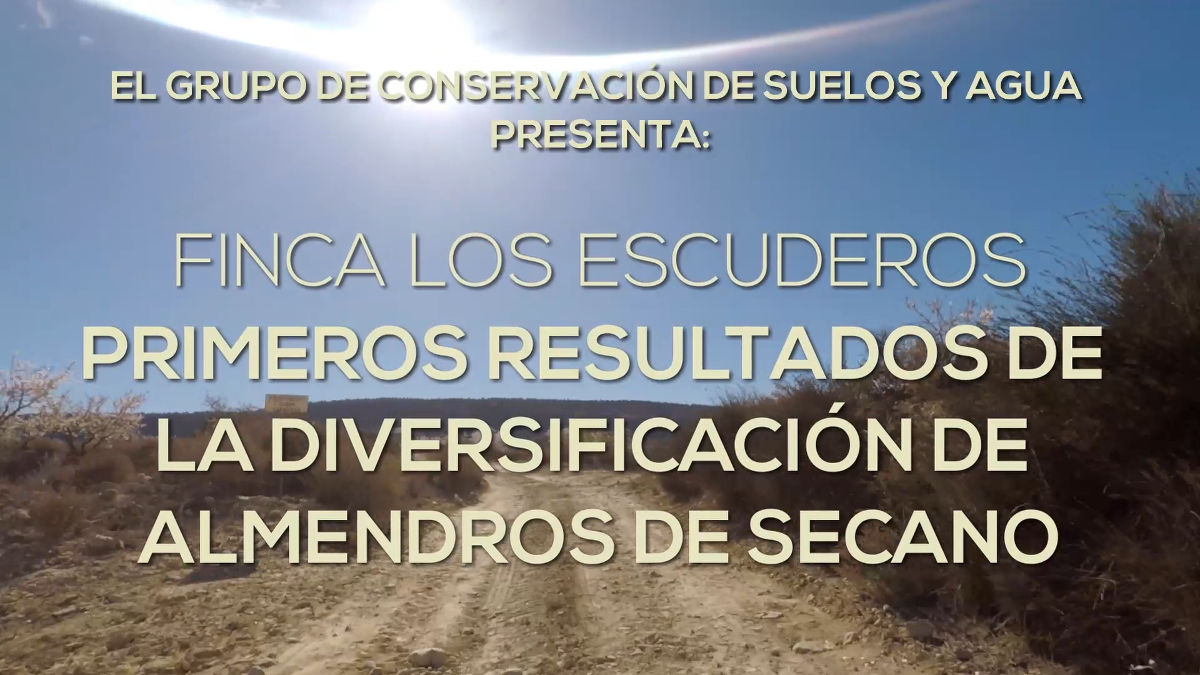
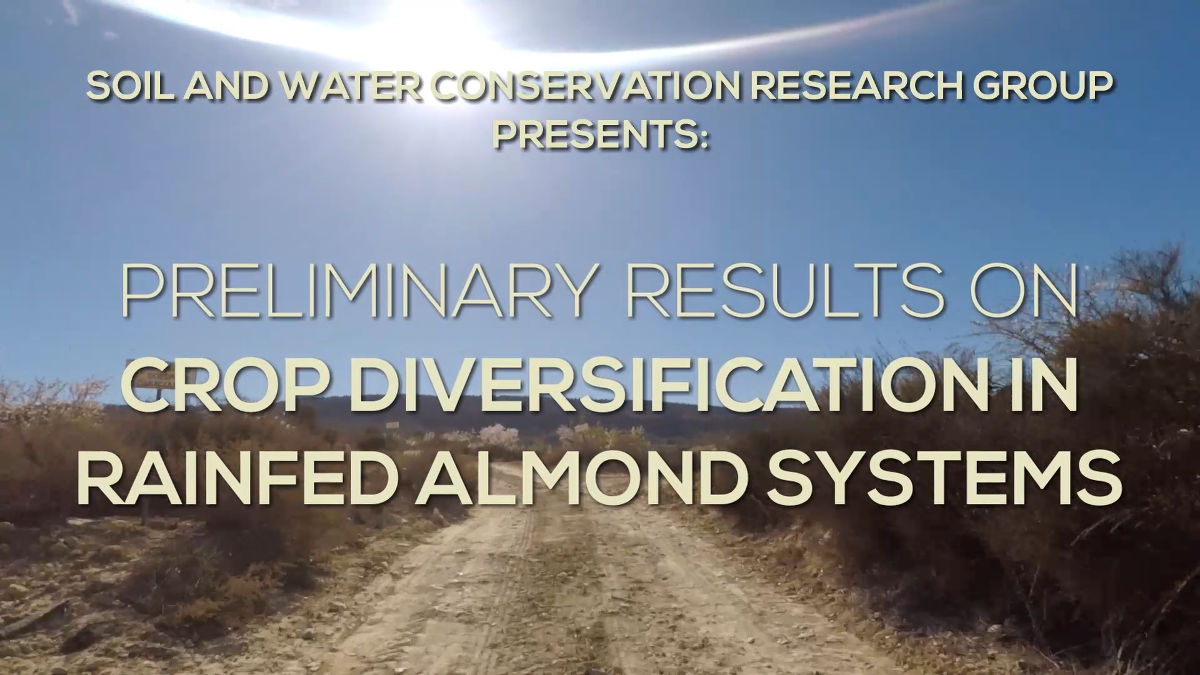
change to english version of diverfarming video 2

diff --git a/content/videos/2021-finca-escuderos-part-2.md b/content/videos/2021-finca-escuderos-part-2.md
@@ -1,9 +1,9 @@
 +++
-title = "Finca Los Escuderos - Primeros Resultados de la Diversificación de Almendros de Secano"
-description = "Video page FFinca Los Escuderos - Primeros Resultados de la Diversificación de Almendros de Secano"
+title = "Preliminary results on crop diversification in rainfed almond systems"
+description = "Video page Preliminary results on crop diversification in rainfed almond systems"
 summary = "Our research group is involved in the DIVERFARMING project (Horizon 2020). The videos shows the preliminary results of one of the field sites of the project. At this field site we are transforming a rainfed almond orchard into a diversified agricultural system."
 authors = ["**JPC Eekhout**", "C Boix-Fayos", "Elvira Diaz-Pereira"]
-date = "2021-02-02"
-id = "aD9A2T8JKlM"
+date = "2021-02-15"
+id = "LUm1ag7LqnU"
 +++
 
